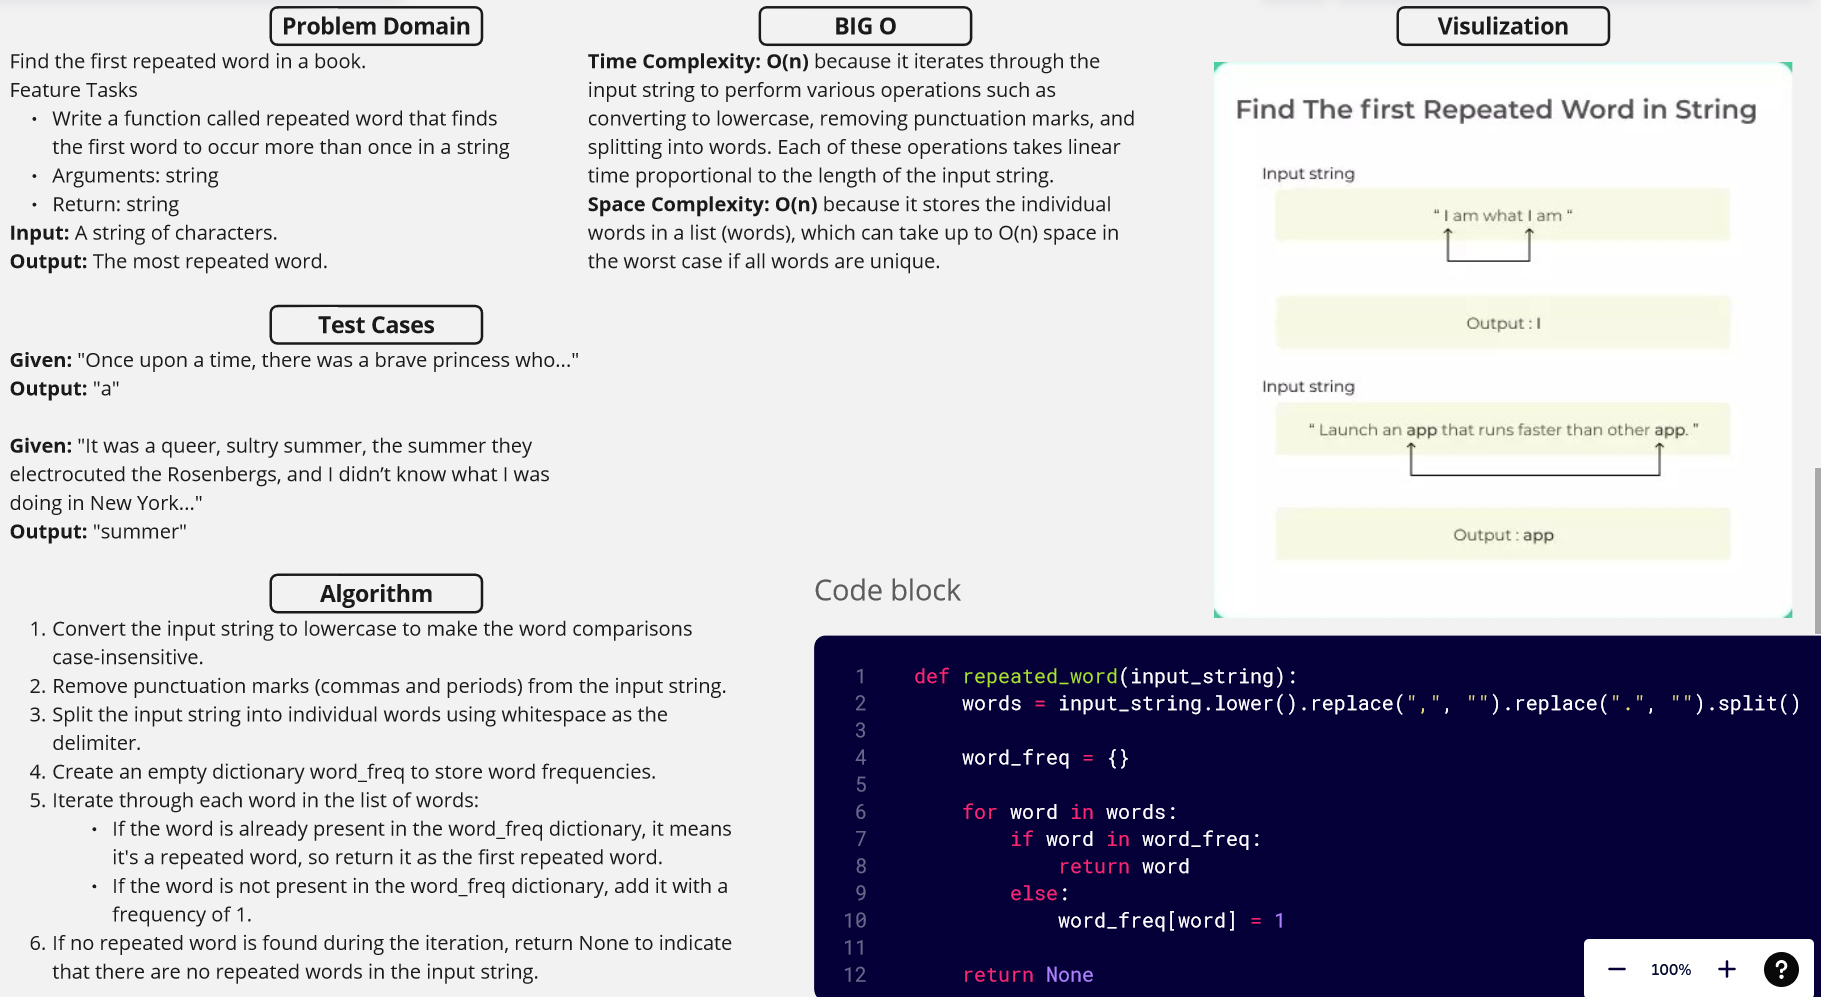
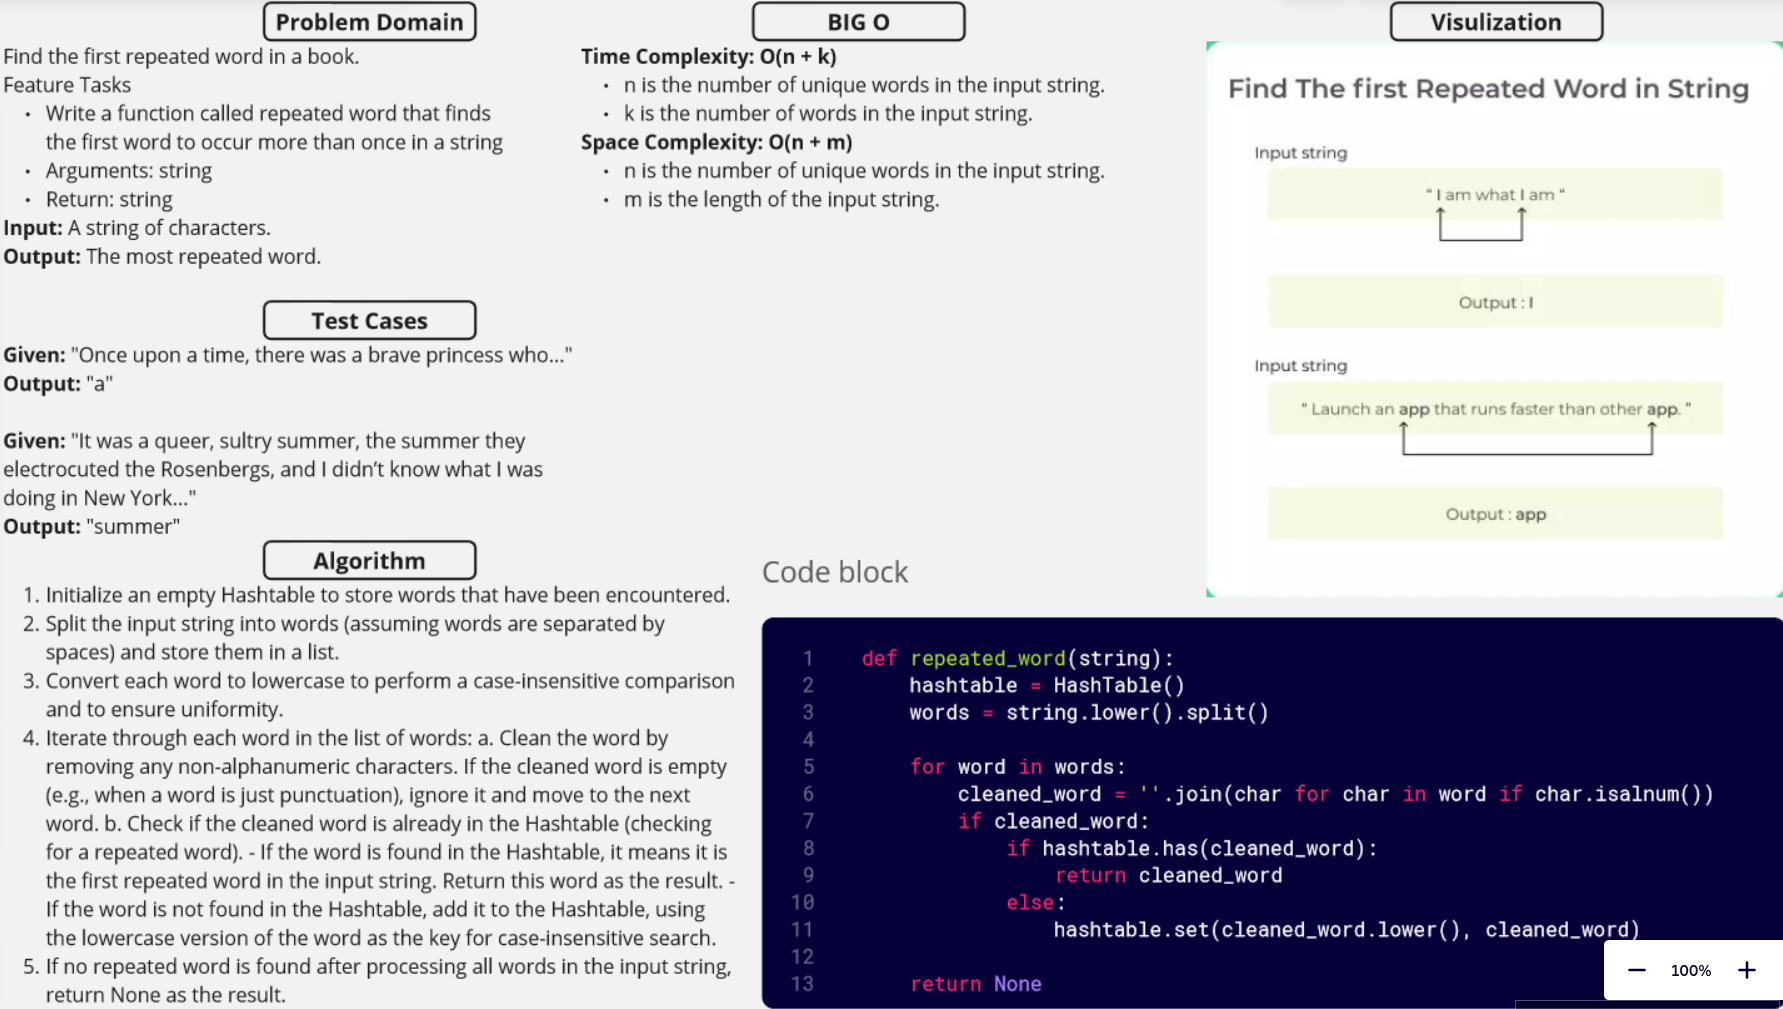
Fixed using hashtables

diff --git a/code_challange_class31/hashmap_repeated_word/hashtable.py b/code_challange_class31/hashmap_repeated_word/hashtable.py
@@ -1,0 +1,96 @@
+class Node:
+    '''
+    A class representing a node in a linked list or other data structures.
+    Each node has two main components: value of the node and reference to the next node.
+    Args: value
+    '''
+    def __init__(self, value):
+        self.next = None
+        self.value = value
+
+
+class LinkedList:
+    '''
+    A class representing a singly linked list data structure
+    '''
+    def __init__(self):
+        self.head = None
+
+    def insert(self, value):
+        '''
+        Insert a new node with the given value at the beginning of the linked list.
+        Args: value
+        Output: None
+        '''
+        new_node = Node(value)
+        new_node.next = self.head
+        self.head = new_node
+
+
+class HashTable:
+    '''
+    A data structure that stores key-value pairs of data using buckets to increase data accessing efficiency.
+    '''
+
+    def __init__(self, size=1024):
+        self.__size = size
+        self.__buckets = [None] * size
+
+    def __hash(self, key):
+        '''
+        A method to return the hash code of the given key.
+        Args: key
+        Output: hash code of the key (index)
+        '''
+        return sum([ord(str(char)) for char in key]) * 283 % self.__size
+
+    def set(self, key, value):
+        '''
+        Set a key-value pair in the bucket, handling collisions as needed.
+        Arguments:
+        key : The key to be hashed and used as the identifier for the value.
+        value : the value that is associated with the key
+        Returns: None
+        '''
+        index = self.__hash(key)
+        if self.__buckets[index] is None:
+            self.__buckets[index] = LinkedList()
+
+        self.__buckets[index].insert((key, value))
+
+    def get(self, key):
+        '''
+        Retrieve the value with the given key from the hashtable.
+        Args: key
+        Return: value or None
+        '''
+        index = self.__hash(key)
+        bucket = self.__buckets[index]
+        if bucket is not None:
+            curr = bucket.head
+            while curr:
+                if curr.value[0] == key:
+                    return curr.value[1]
+                curr = curr.next
+        return None
+
+    def has(self, key):
+        '''
+        A method to check if the given key exists in the hashtable.
+        Args: key
+        Output: boolean
+        '''
+        return self.get(key) is not None
+
+    def keys(self):
+        '''
+        Args: none
+        Returns a list of all the keys present in the Hashtable.
+        '''
+        keys = []
+        for bucket in self.__buckets:
+            curr = bucket.head if bucket else None
+            while curr:
+                keys.append(curr.value[0])
+                curr = curr.next
+        return keys

diff --git a/code_challange_class31/hashmap_repeated_word/hashmap_repeated_word.py b/code_challange_class31/hashmap_repeated_word/hashmap_repeated_word.py
@@ -1,12 +1,25 @@
-def repeated_word(input_string):
-    words = input_string.lower().replace(",", "").replace(".", "").split()
+from  code_challange_class31.hashmap_repeated_word.hashtable import HashTable
 
-    word_freq = {}
+def repeated_word(string):
+    """
+    Find the first repeated word in the input string.
+
+    Args:
+    string (str): The input string to search for repeated words.
+
+    Returns:
+    str or None: The first repeated word found, or None if no repeated word is found.
+    """
+    hashtable = HashTable()
+
+    words = string.lower().split()
 
     for word in words:
-        if word in word_freq:
-            return word
-        else:
-            word_freq[word] = 1
+        cleaned_word = ''.join(char for char in word if char.isalnum())
+        if cleaned_word:
+            if hashtable.has(cleaned_word):
+                return cleaned_word
+            else:
+                hashtable.set(cleaned_word.lower(), cleaned_word)
 
     return None

diff --git a/code_challange_class31/hashmap_repeated_word.md b/code_challange_class31/hashmap_repeated_word.md
@@ -16,28 +16,33 @@ Return: string
 
 ## Approach
 
-1. Convert the input string to lowercase to make the word comparisons case-insensitive.
-2. Remove punctuation marks (commas and periods) from the input string.
-3. Split the input string into individual words using whitespace as the delimiter.
-4. Create an empty dictionary `word_freq` to store word frequencies.
-5. Iterate through each word in the list of words:
-   - If the word is already present in the `word_freq` dictionary, it means it's a repeated word, so return it as the first repeated word.
-   - If the word is not present in the `word_freq` dictionary, add it with a frequency of 1.
-6. If no repeated word is found during the iteration, return `None` to indicate that there are no repeated words in the input string.
+1. **Initialize Hashtable**: Create an empty Hashtable to store words that have been encountered.
+
+2. **Split Words**: Split the input string into words (assuming words are separated by spaces) and store them in a list.
+
+3. **Lowercase Conversion**: Convert each word to lowercase to perform a case-insensitive comparison and to ensure uniformity.
+
+4. **Iterate through Words**:
+    - a. **Clean Words**: For each word in the list of words, clean it by removing any non-alphanumeric characters. If the cleaned word is empty (e.g., when a word is just punctuation), ignore it and move to the next word.
+
+    - b. **Check for Repeated Words**: Check if the cleaned word is already in the Hashtable, which serves as a lookup table for repeated words.
+        - If the word is found in the Hashtable, it means it is the first repeated word in the input string. Return this word as the result.
+
+        - If the word is not found in the Hashtable, add it to the Hashtable, using the lowercase version of the word as the key for case-insensitive search.
+
+5. **Return Result**: If no repeated word is found after processing all words in the input string, return None as the result.
 
 ## Efficiency
 
-- Time Complexity: O(n)
-  - Converting the input string to lowercase: O(n)
-  - Removing punctuation marks (commas and periods): O(n)
-  - Splitting the input string into words: O(n)
-  - Iterating through each word and dictionary lookup/insertion: O(n)
-  - In the worst case, the entire process takes O(n) time, where n is the length of the input string.
+### Time Complexity: O(n + k)
 
-- Space Complexity: O(n)
-  - The `words` list to store individual words: O(n)
-  - The `word_freq` dictionary to store word frequencies: O(n)
-  - In the worst case, both the list and dictionary combined take O(n) space, where n is the number of words in the input string.
+- `n` is the number of unique words in the input string.
+- `k` is the number of words in the input string.
+
+### Space Complexity: O(n + m)
+
+- `n` is the number of unique words in the input string.
+- `m` is the length of the input string.
 
 ## Tests
 
